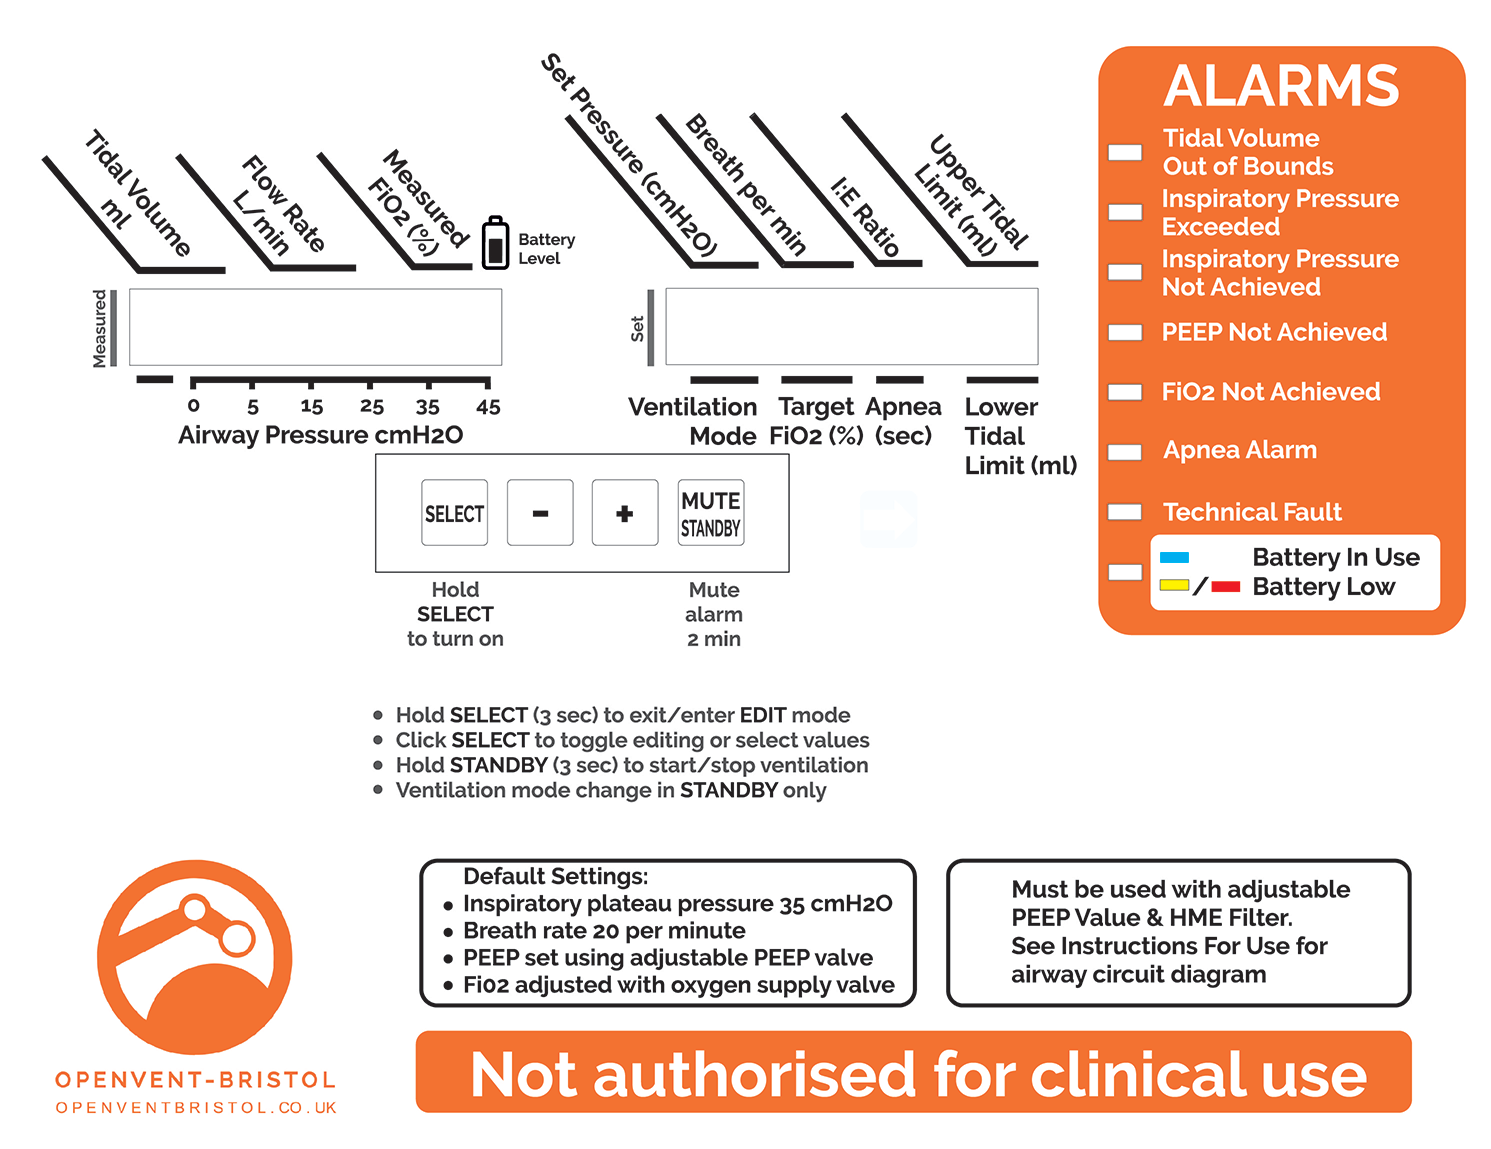
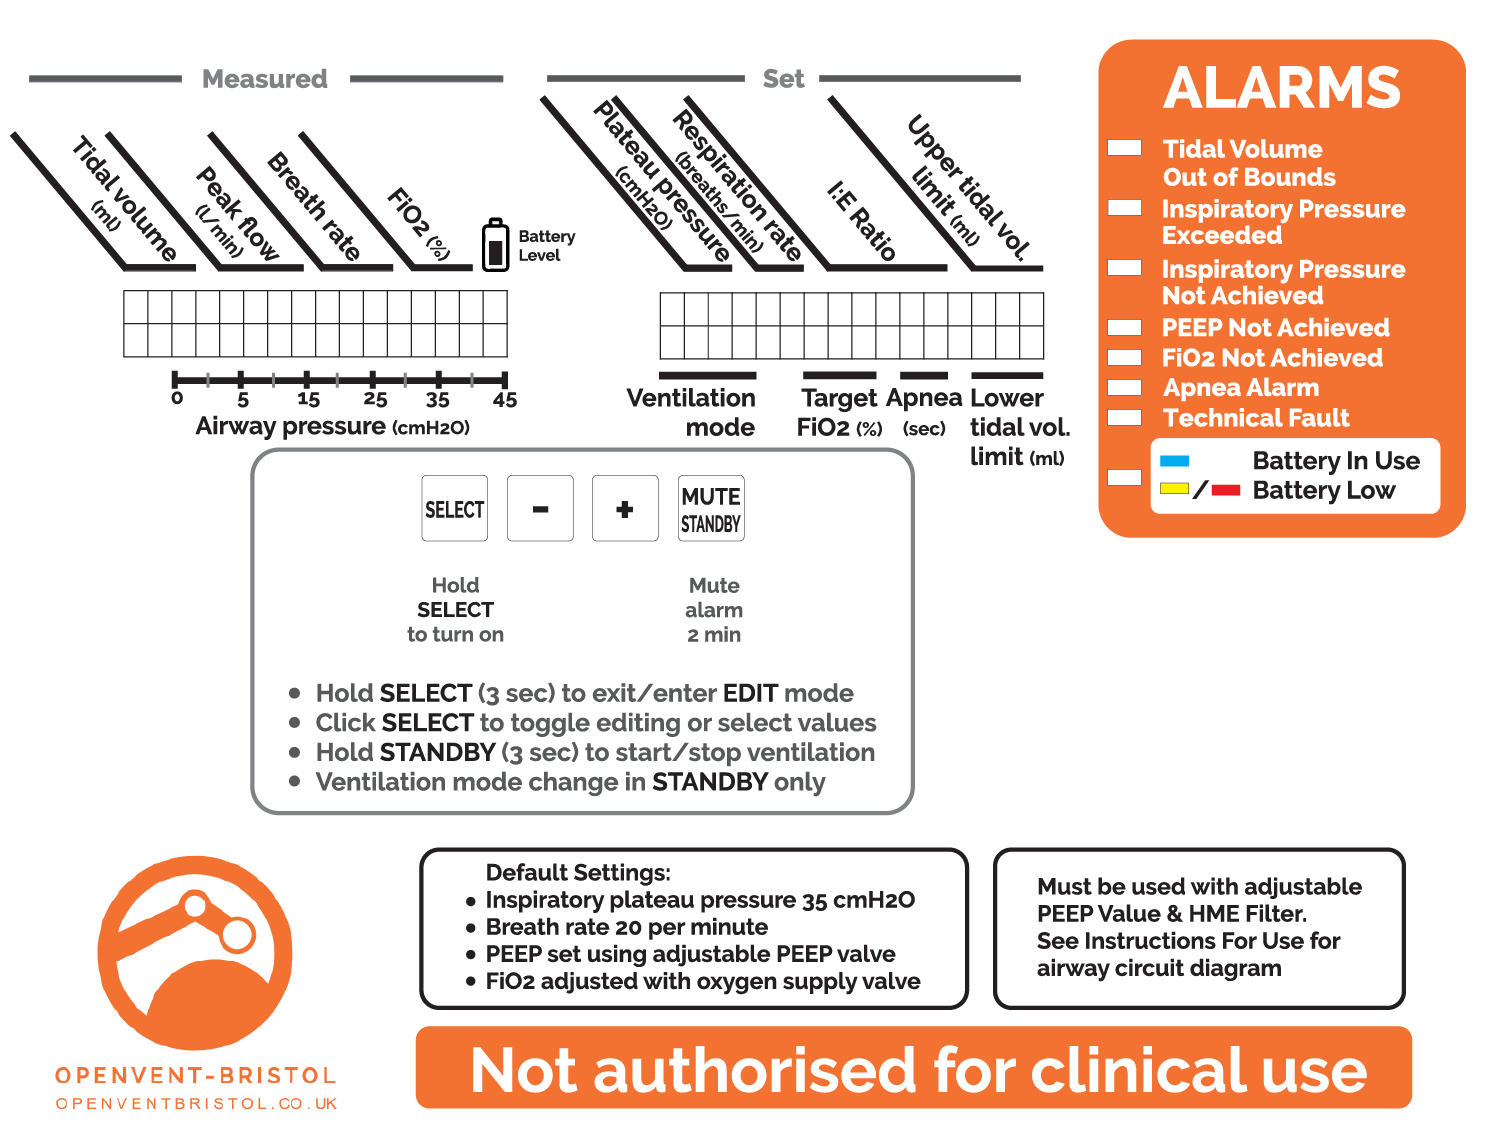
added new label and measured breath rate

diff --git a/README.md b/README.md
@@ -13,3 +13,5 @@ If you want to try to compile it yourselfe, you would need to:
 V1-V7 offline development to initial state on github.
 V8 (WIP)
 - added additional step to off mode to keep the interactions more consistent.
+- new label
+- added measured breath rate
